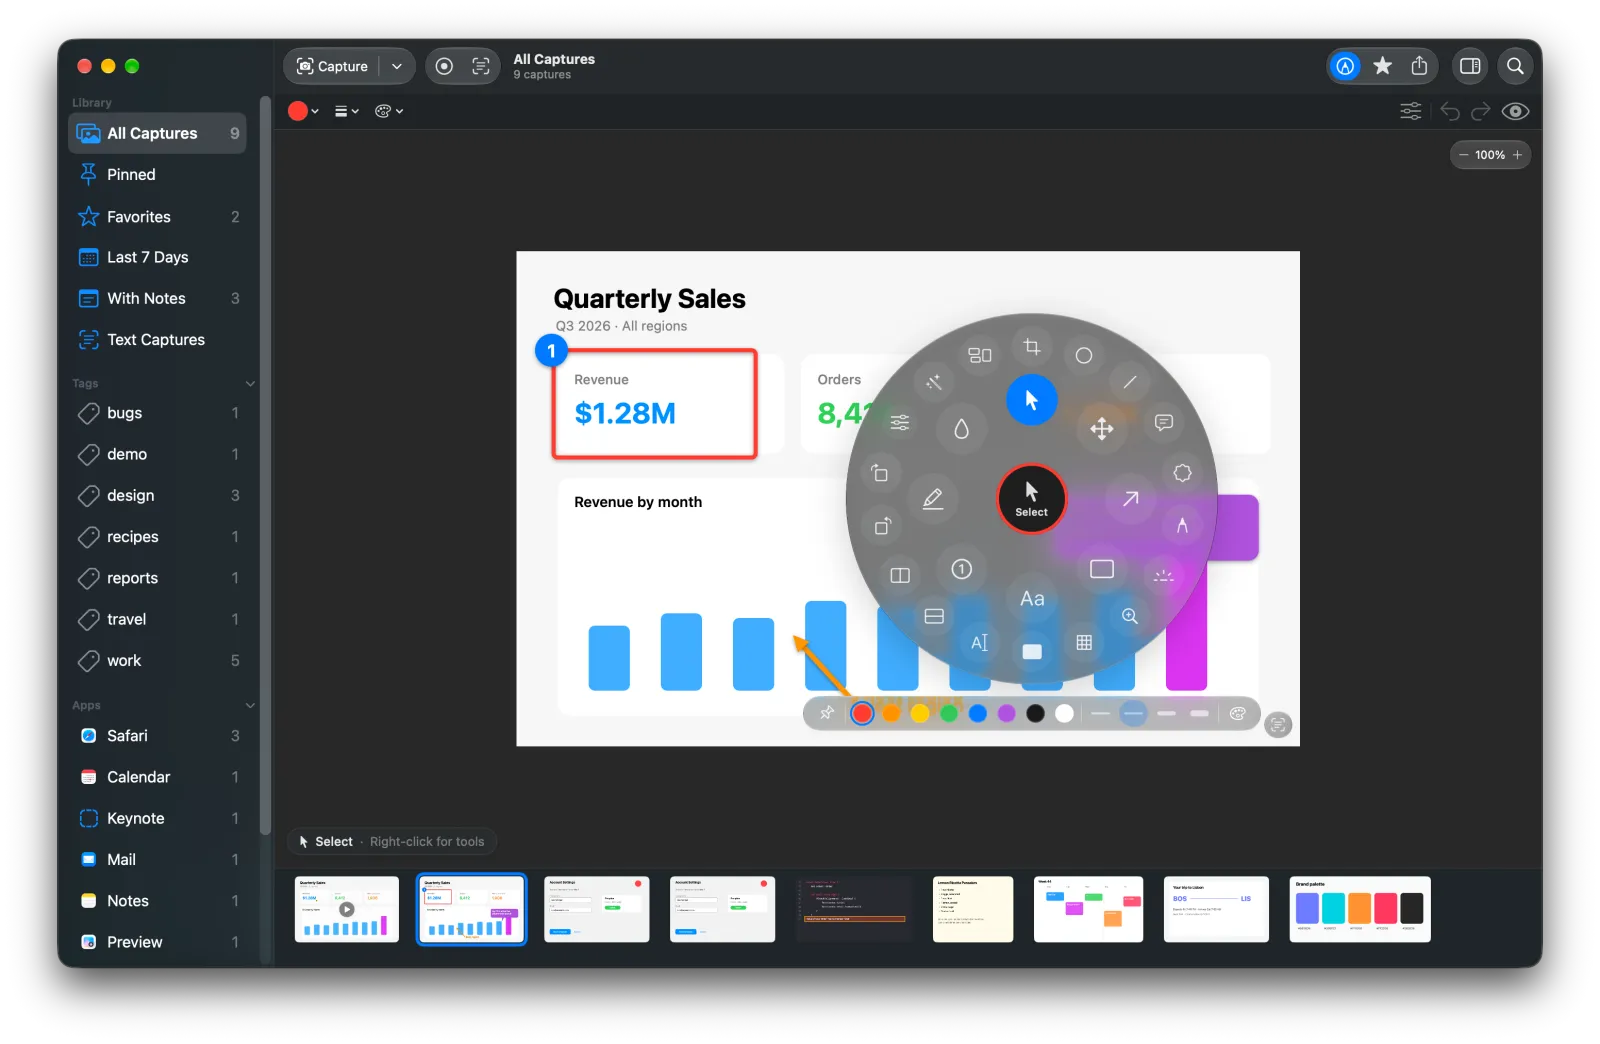
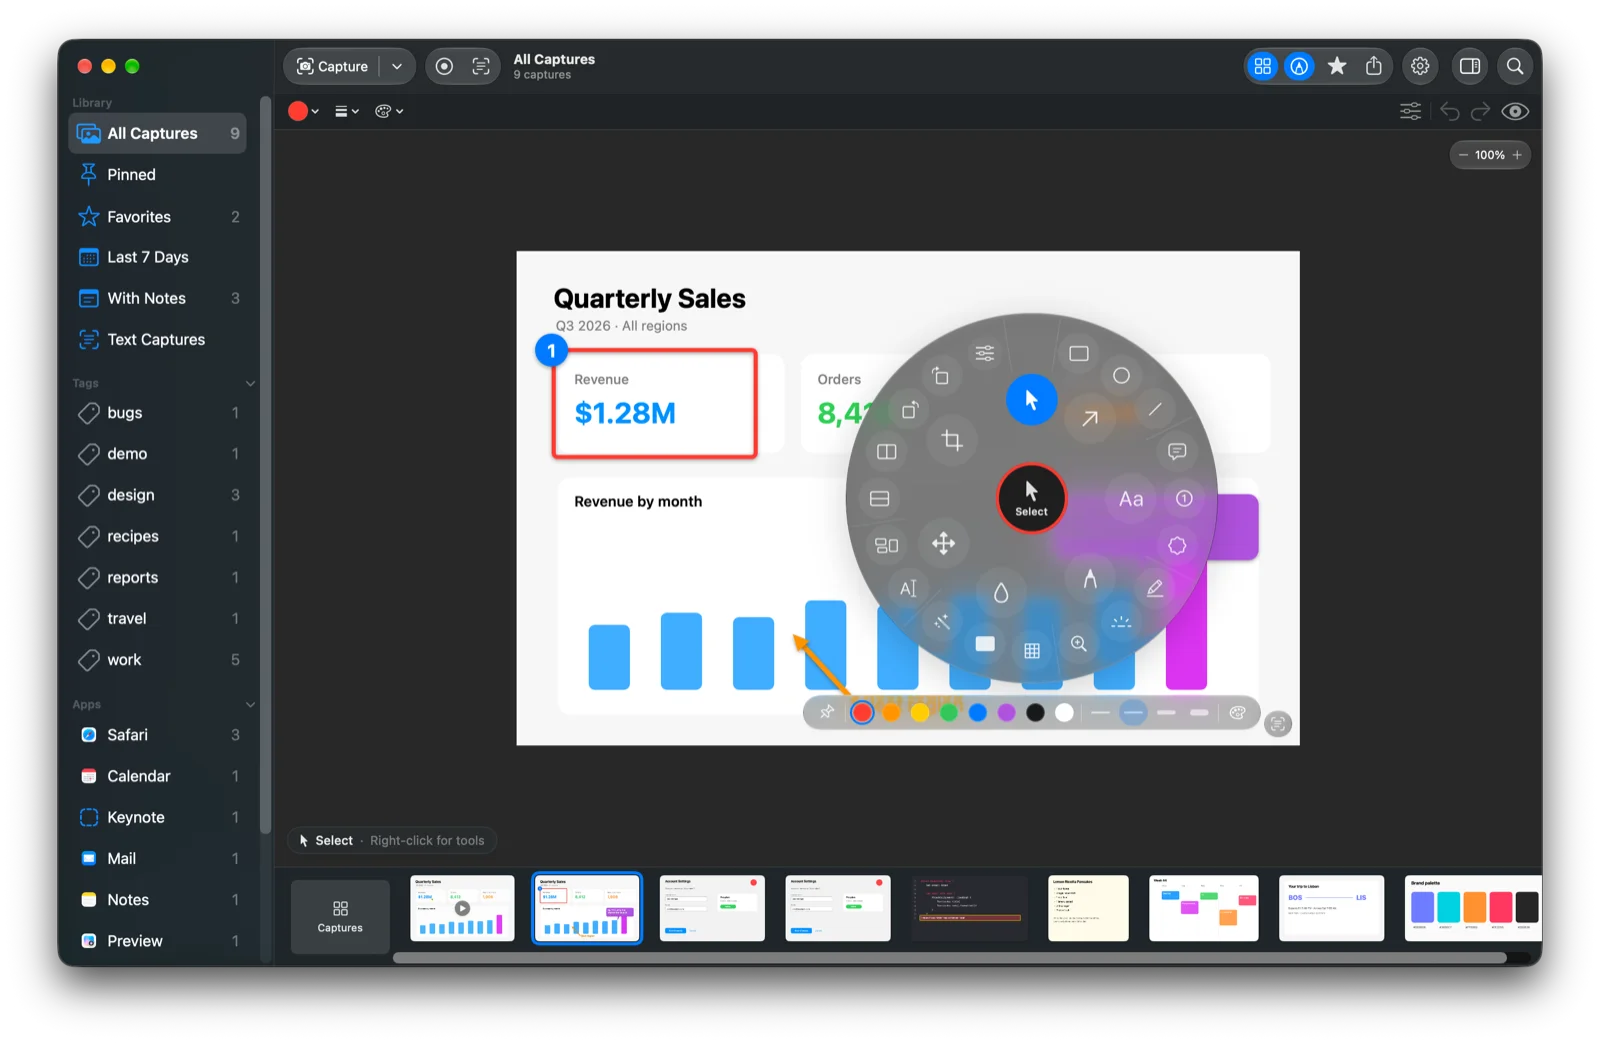
README: dial screenshot with the grouped tools
The screenshot run shoots the dial at full width, in both layouts.

diff --git a/Sources/CaptureLens/DebugShots.swift b/Sources/CaptureLens/DebugShots.swift
@@ -92,13 +92,24 @@ enum DebugShots {
             await shoot(window, "editor-full", out: out, note: note)
             AppDefaults.store.set("left", forKey: "editor.palettePlacement")
             prefs.toolStyle = .dial
-            try? await Task.sleep(for: .seconds(1))
+            // Full width, so the whole dial fits over the picture.
+            library.state.showFullWidth()
+            try? await Task.sleep(for: .seconds(1.5))
+            CanvasZoom.shared.fitRequested += 1
+            try? await Task.sleep(for: .seconds(0.5))
             if let scroll = findScroll(window.contentView) {
                 scroll.openDial(at: CGPoint(x: scroll.bounds.midX + 120, y: scroll.bounds.midY), held: false)
                 try? await Task.sleep(for: .seconds(1))
                 await shoot(window, "dial", out: out, note: note)
+                // One button per group, with the shapes fanned out as pointing at them would.
+                prefs.dialLayout = .groups
+                scroll.debugDialState.openGroup = .shapes
+                try? await Task.sleep(for: .seconds(1))
+                await shoot(window, "dial-groups", out: out, note: note)
+                prefs.dialLayout = .slices
                 scroll.closeDial()
             }
+            library.state.leaveFullWidth()
             // A real right-click on the picture, through the event queue, with the details
             // showing as they do by default.
             library.state.showInfo = true

diff --git a/README.md b/README.md
@@ -69,7 +69,7 @@ Requires macOS 26 or later. Automatic names need Apple Intelligence turned on.
 <table>
 <tr>
 <td width="50%"><img src="docs/images/capturelens-annotate.webp" alt="A sample sales chart marked up with a numbered box, a callout and an arrow, with the markup tools in a strip beside it"><br><sub><b>Markup.</b> Boxes, arrows, callouts and steps that stay editable.</sub></td>
-<td width="50%"><img src="docs/images/capturelens-dial.webp" alt="The markup tools as a radial dial on a glass disc over a capture, with colors and line widths in a bar underneath"><br><sub><b>Strip or dial.</b> The tools as a radial dial, pinned open.</sub></td>
+<td width="50%"><img src="docs/images/capturelens-dial.webp" alt="The markup tools as a radial dial on a glass disc over a capture, each group of tools in its own slice, with colors and line widths in a bar underneath"><br><sub><b>Strip or dial.</b> The tools as a dial, grouped by kind, pinned open.</sub></td>
 </tr>
 <tr>
 <td width="50%"><img src="docs/images/capturelens-smart-move.webp" alt="Smart Move outlining the fields, buttons and lines of text in a sample Account Settings capture"><br><sub><b>Smart Move.</b> Pick up parts of the picture and move them.</sub></td>
